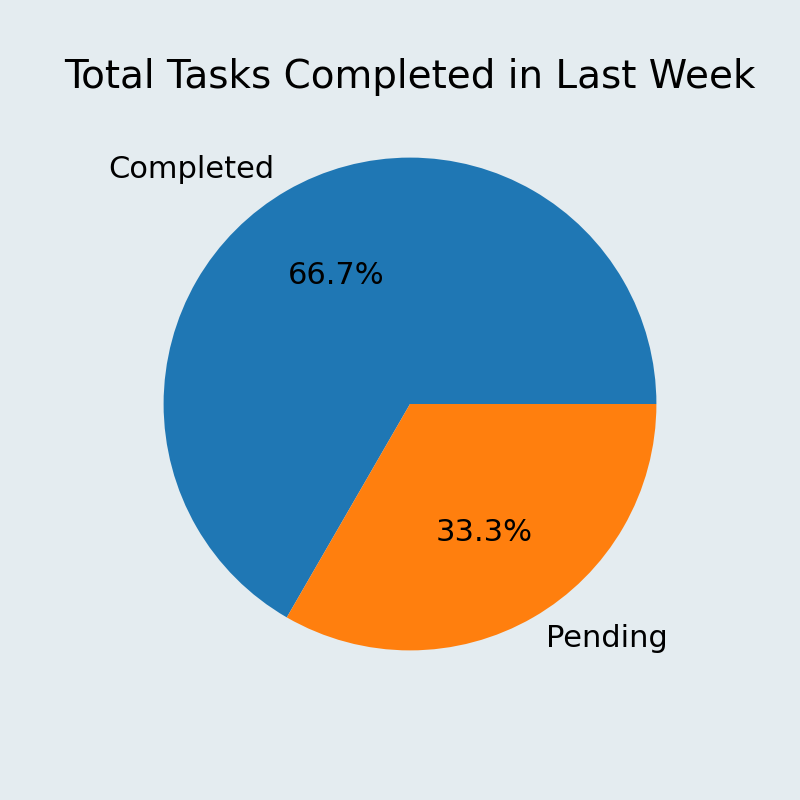
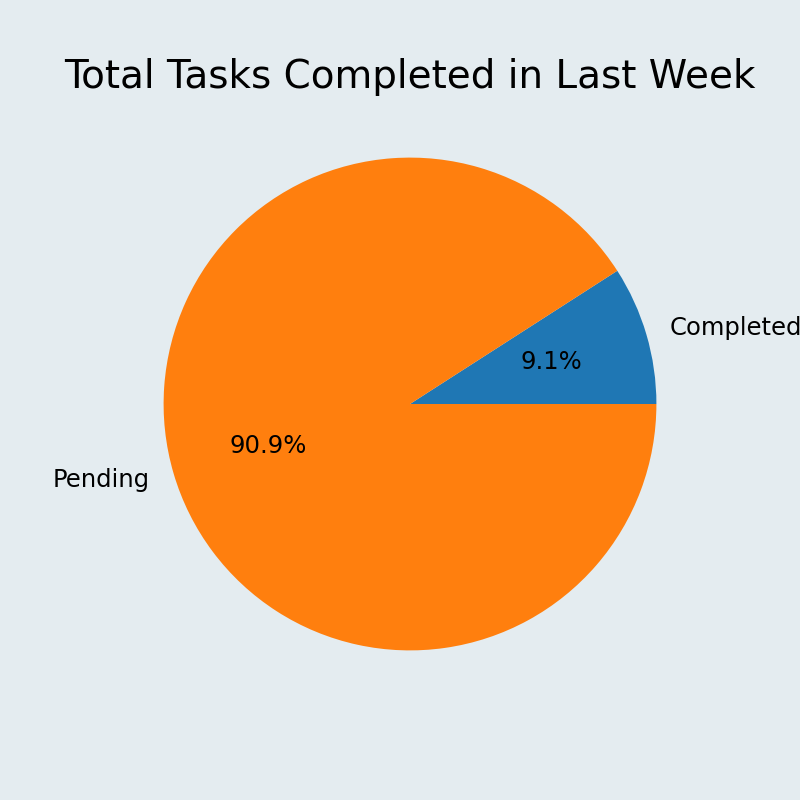
final front-end updates - responsive design changes

diff --git a/source/static/styles/styles.css b/source/static/styles/styles.css
@@ -8,6 +8,10 @@ body {
 }
 
 header {
+    display: flex;
+    justify-content: center;
+    align-items: center;
+
     background: #005f73;
     color: #fff;
     padding: 10px 0;
@@ -15,13 +19,16 @@ header {
     top: 0;
     width: 100%;
     z-index: 1000;
+    height: 40px;
 }
 
 nav {
     display: flex;
     justify-content: center;
+
     align-items: center;
 }
+
 
 nav ul {
     list-style: none;
@@ -35,6 +42,9 @@ nav ul li {
 }
 
 nav ul li a {
+    display: flex;
+    align-items: center;
+
     color: #fff;
     text-decoration: none;
     font-weight: bold;
@@ -48,14 +58,17 @@ nav ul li a {
     font-size: 18px;
 }
 
-nav ul li a:hover, nav ul li a:focus {
-    color: #e76f51;
+.dropdown-content a:hover {
+    text-decoration: underline !important; /* Forces underline on hover */
+    color: #e76f51 !important;
 }
+
 
 .dropdown-content {
     display: none;
     position: absolute;
-    background-color: #f9f9f9
+    background-color: #005f73;
+
     min-width: 160px;
     box-shadow: 0px 8px 16px 0px rgba(0,0,0,0.2);
     padding: 12px 16px;
@@ -189,5 +202,141 @@ button[type="submit"]:active {
     padding: 0;
 }
 
+/* Mobile Optimization - Responsive Design -------------------------------------------------- */
 
+
+@media screen and (max-width: 600px) {
+    .container {
+        flex-direction: column;
+    }
+
+    .section {
+        margin: 10px 0;
+    }
+
+    nav ul li {
+        margin: 5px;
+    }
+
+    nav ul li a {
+        font-size: 1.2em;
+    }
+
+    button[type="submit"] {
+        padding: 8px 16px;
+    }
+}
+
+
+/* Make images flexible */
+img {
+    max-width: 100%;
+    height: auto;
+}
+
+/* Adjust button and link sizes for easier tapping
+button[type="submit"], nav ul li a {
+    padding: 10px;
+} */
+
+
+/* Hamburger Menu */
+/* Base and layout styles */
+#navigation nav ul,
+#navigation nav ul li {
+    margin: 0;
+    padding: 0;
+    list-style-type: none;
+}
+
+#navigation nav ul li a {
+    text-decoration: none;
+    color: white;
+    padding: 15px;
+    display: block;
+}
+
+.nav-toggle {
+    display: none; /* Checkbox is always hidden */
+}
+
+.nav-toggle-label {
+    display: none; /* Hamburger icon label is hidden by default */
+    cursor: pointer;
+    position: absolute;
+    top: 0;
+    left: 0;
+    width: 40px;
+    height: 30px;
+}
+
+.nav-toggle-label span,
+.nav-toggle-label span::before,
+.nav-toggle-label span::after {
+    display: none; /* Initially hide the hamburger icon components */
+}
+
+
+/* Hamburger icon styling */
+@media (max-width: 600px) {
+    .nav-toggle-label {
+        display: block; /* Show hamburger icon at 600px or below */
+        height: 40px;
+        padding-top: 20px;
+        margin-left: 5px;
+    }
+
+    .nav-toggle-label span,
+    .nav-toggle-label span::before,
+    .nav-toggle-label span::after {
+        display: block;
+        background-color: white; /* Icon color */
+        height: 3px; /* Line thickness */
+        width: 30px; /* Line width - default 100%*/
+        position: absolute;
+        transition: 0.3s;
+    }
+
+    .nav-toggle-label span {
+        top: 50%;
+        transform: translateY(-50%);
+    }
+
+    .nav-toggle-label span::before {
+        content: "";
+        top: -10px;
+    }
+
+    .nav-toggle-label span::after {
+        content: "";
+        top: 10px;
+    }
+
+    .nav-toggle:checked + .nav-toggle-label + nav ul,
+    .nav-toggle:checked ~ nav ul {
+        display: block;
+    }
+
+    nav ul {
+        display: none; /* Hide menu by default */
+        position: absolute;
+        background-color: #005f73; /* Adjust menu background as needed */
+        top: 60px; /* Adjust based on the height of the icon - default 30px */
+        left: 0;
+        width: 100%;
+        padding: 0;
+    }
+
+    nav ul li {
+        display: block;
+    }
+
+    nav ul li a {
+        padding: 20px;
+    }
+}
+
+
+
+/* ----------------------------------------------------------------------------------------- */
 

diff --git a/source/templates/index.html b/source/templates/index.html
@@ -9,17 +9,28 @@
     </head>
     <body>
         <header>
-            <nav>
-                <ul>
-                    <li><a href="">Home</a></li>
-                    <li class="dropdown">
-                        <a href="javascript:void(0)">Contact Us</a>
-                        <div class="dropdown-content">
-                            <a href="mailto:eklausner@mail.valenciacollege.edu">eklausner@mail.valenciacollege.edu</a>
-                        </div>
-                    </li>
-                </ul>
-            </nav>
+            <div id="navigation">
+
+        <input type="checkbox" id="nav-toggle" class="nav-toggle">
+    <label for="nav-toggle" class="nav-toggle-label">
+        <span></span>
+    </label>
+
+                <nav>
+
+
+                    <ul>
+                        <li><a href="">Home</a></li>
+                        <li class="dropdown">
+                            <a href="javascript:void(0)">Contact Us</a>
+                            <div class="dropdown-content">
+                                <a href="mailto:eklausner@mail.valenciacollege.edu">eklausner@mail.valenciacollege.edu</a>
+                            </div>
+                        </li>
+                    </ul>
+                </nav>
+            </div>
+
         </header>
         <div class="container">
             <div class="section">
@@ -33,7 +44,7 @@
                         <input type="date" name="due_date" placeholder="Due Date" required>
                         <label for="due_date">Due Date</label>
                         <button type="submit">Add</button> 
-                    </form> 
+                    </form>
 
                     <ul>
                         {% for task, due_date in tasks %}

diff --git a/source/static/scripts/scripts.js b/source/static/scripts/scripts.js
@@ -59,5 +59,7 @@ document.addEventListener('DOMContentLoaded', function () {
     }
 
 
+
+
 });
 

diff --git a/source/app.py b/source/app.py
@@ -116,7 +116,7 @@ class ToDoList:
         data = [total_completed_tasks_week, total_tasks - total_completed_tasks_week]
         labels = ['Completed', 'Pending']
         plt.figure(figsize=(8, 8), facecolor='#E4ECF0')
-        plt.pie(data, labels=labels, autopct='%1.1f%%', textprops={'fontsize': 22})
+        plt.pie(data, labels=labels, autopct='%1.1f%%', textprops={'fontsize':17.5})
         plt.title('Total Tasks Completed in Last Week', fontsize=28)
 
         # Use os.path.join to create the image path
